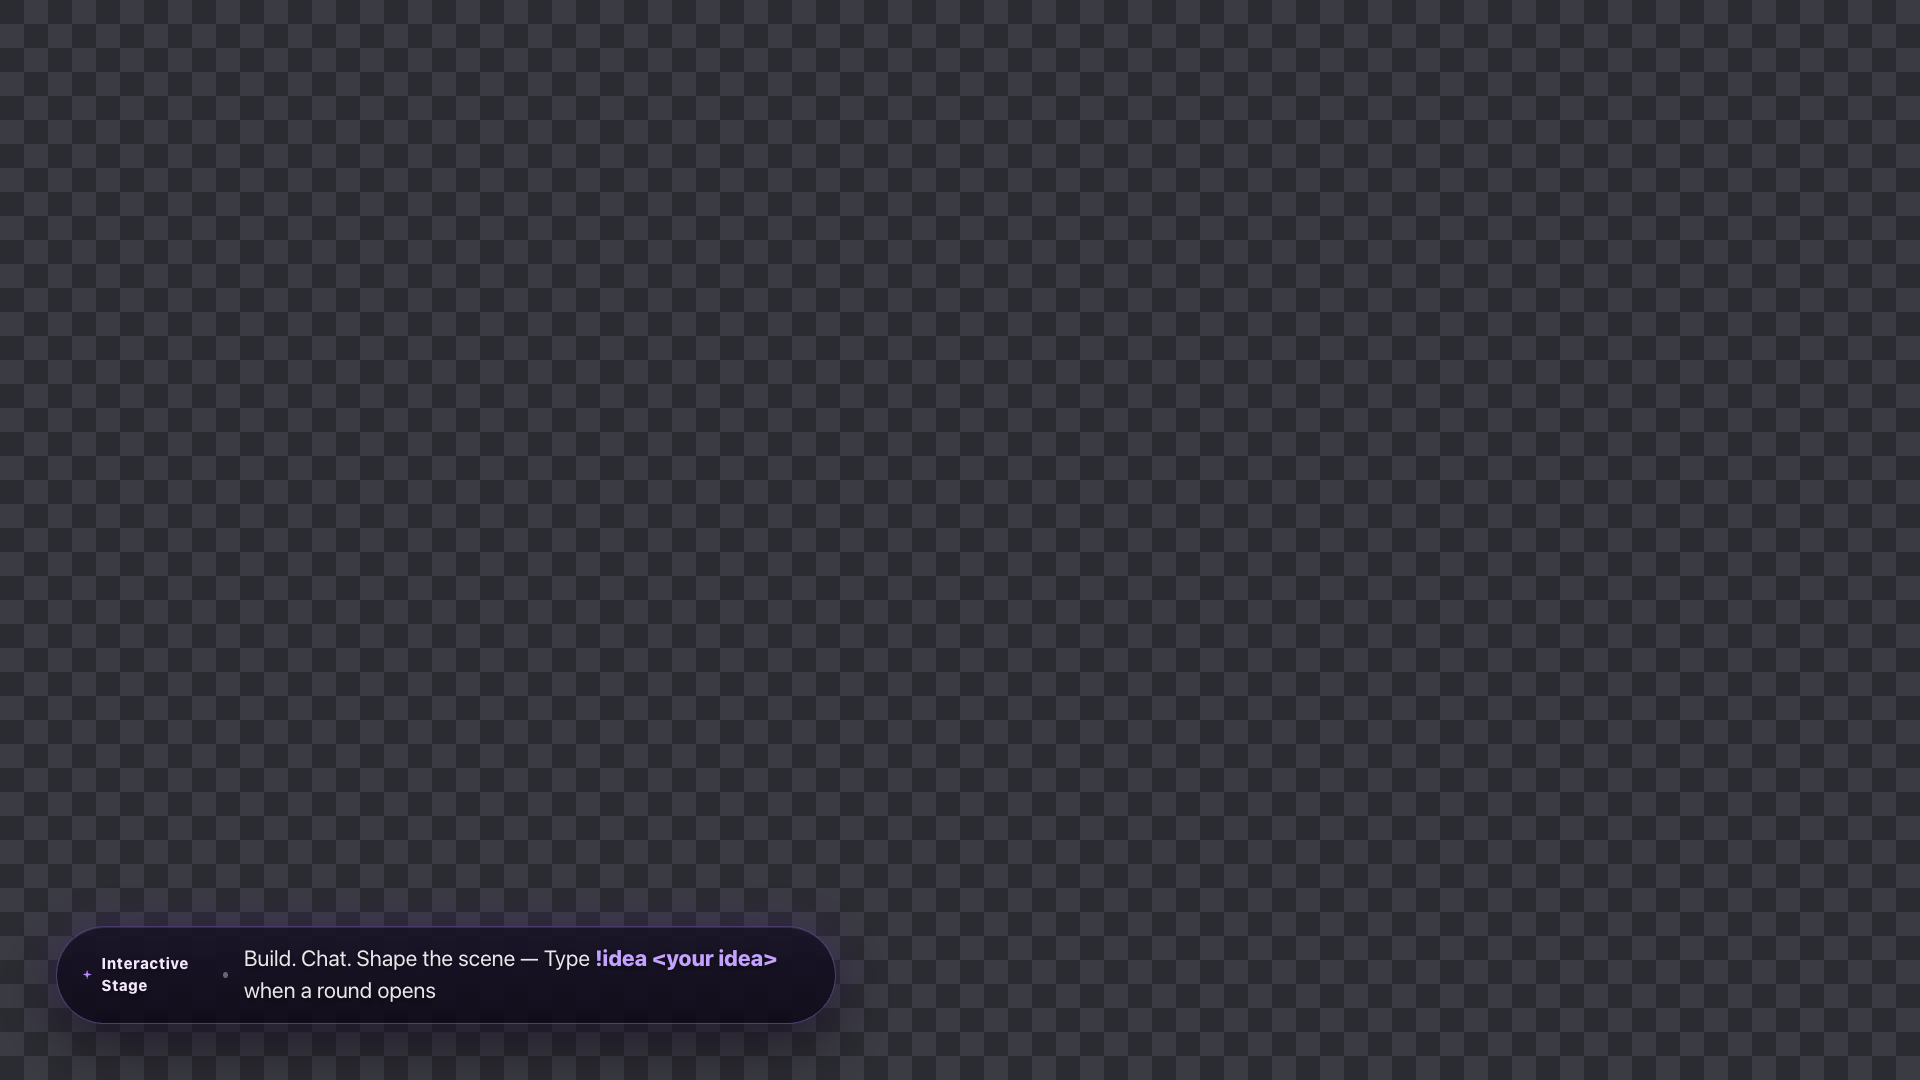
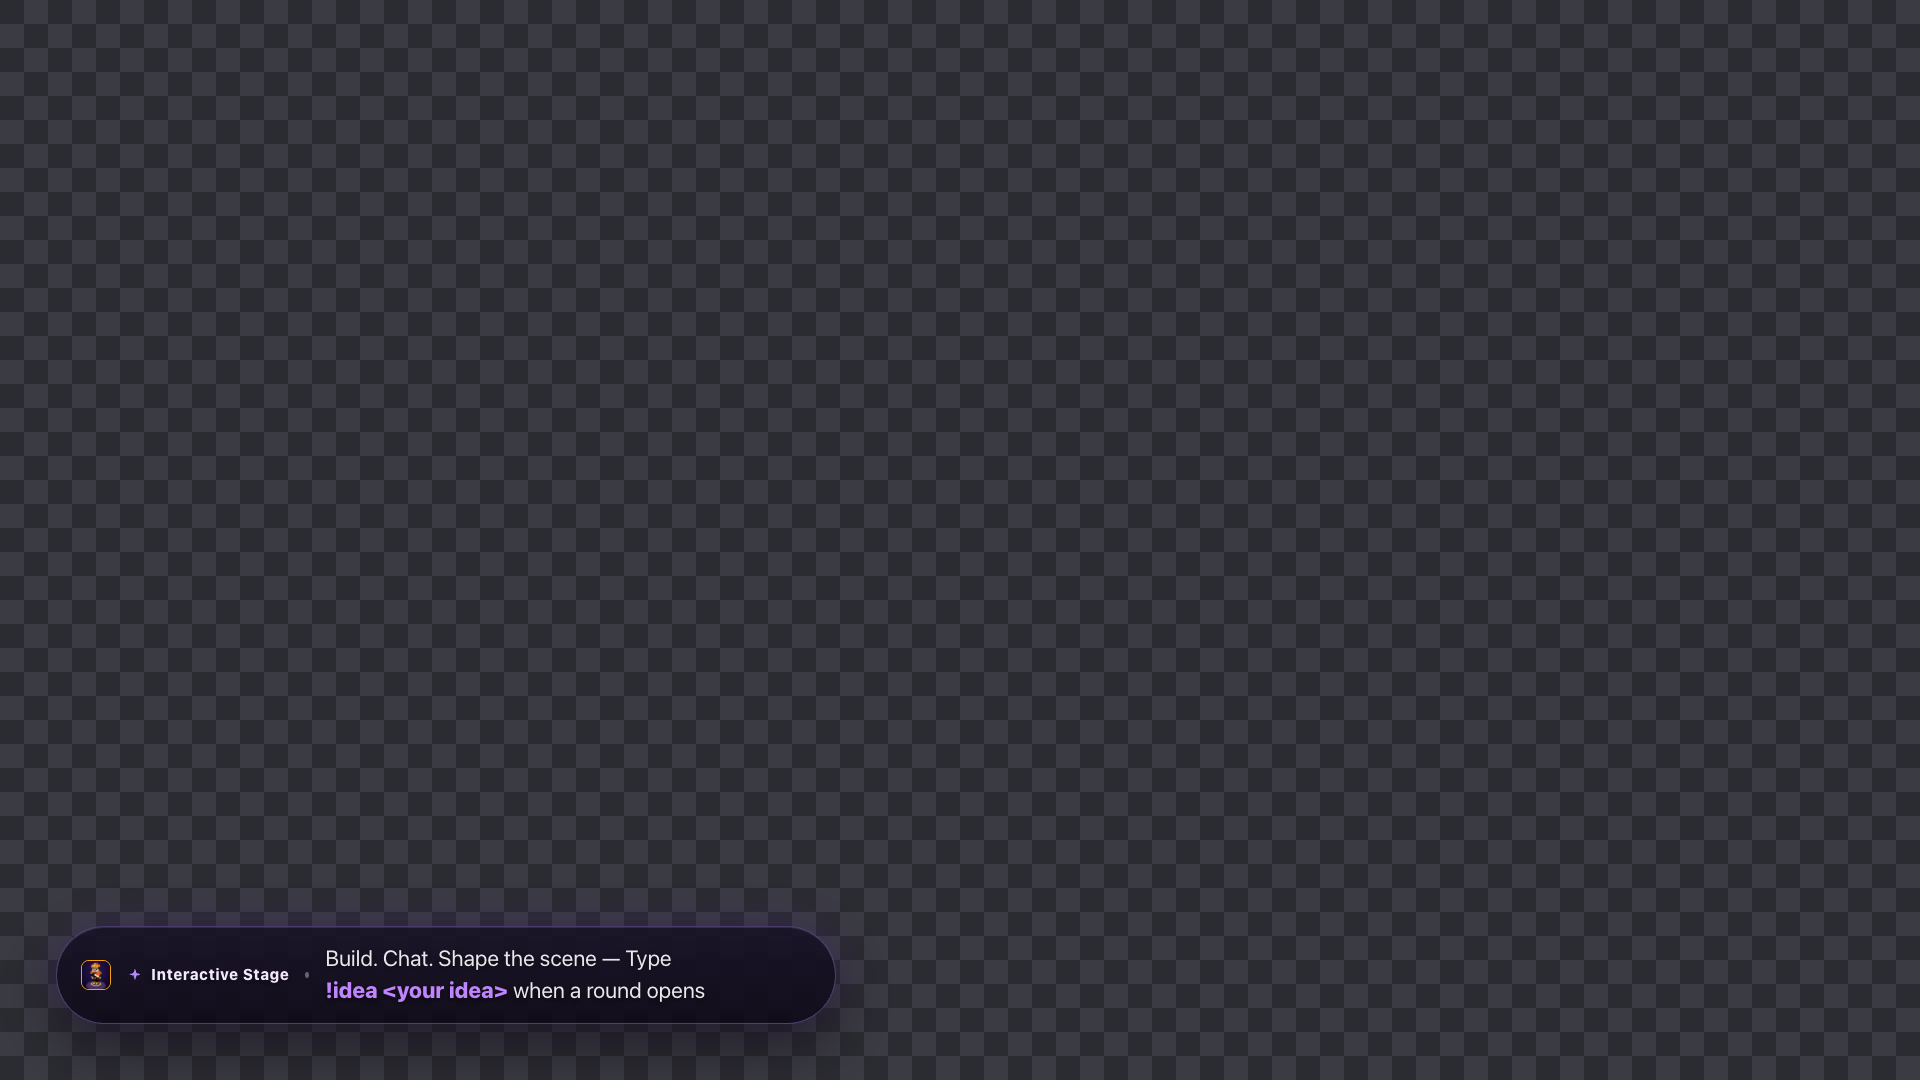
docs: refresh screenshots with demo account and remove old design images

Changed region(s): [[0.0312, 0.8556, 0.4062, 0.9472]]

diff --git a/README.md b/README.md
@@ -17,10 +17,15 @@ progress on an OBS overlay.
                                                                  claim · build · report · finish
 ```
 
-| Streamer dashboard | OBS overlay (transparent, 1920 × 1080) |
+| Streamer Studio (Light Theme & 3D Workshop Preview) | Pop-out Showcase (3D Floating Acropolis) |
 |---|---|
-| ![Dashboard during the vote](docs/screenshots/dashboard-voting.png) | ![Overlay ballot](docs/screenshots/overlay-voting.png) |
-| ![Dashboard while Codex builds via MCP](docs/screenshots/dashboard-executing.png) | ![Overlay build progress](docs/screenshots/overlay-executing.png) |
+| ![Streamer Studio Light Theme](docs/screenshots/dashboard-idle.jpg) | ![Pop-out Showcase 3D Floating Acropolis](docs/screenshots/popout-showcase.jpg) |
+| ![Pop-out Card Mode](docs/screenshots/popout-card.jpg) | ![Pop-out Green Chroma Key Mode](docs/screenshots/popout-green-chroma.png) |
+
+| Streamer dashboard (voting & live MCP execution) | OBS overlay (transparent, 1920 × 1080) |
+|---|---|
+| ![Dashboard during the vote](docs/screenshots/dashboard-voting.jpg) | ![Overlay ballot](docs/screenshots/overlay-voting.png) |
+| ![Dashboard while Codex builds via MCP](docs/screenshots/dashboard-executing.jpg) | ![Overlay build progress](docs/screenshots/overlay-executing.png) |
 
 The one thing it proves: **viewers propose → the community decides → Aria
 organises the work → the streamer approves → an agent builds it → viewers see the
